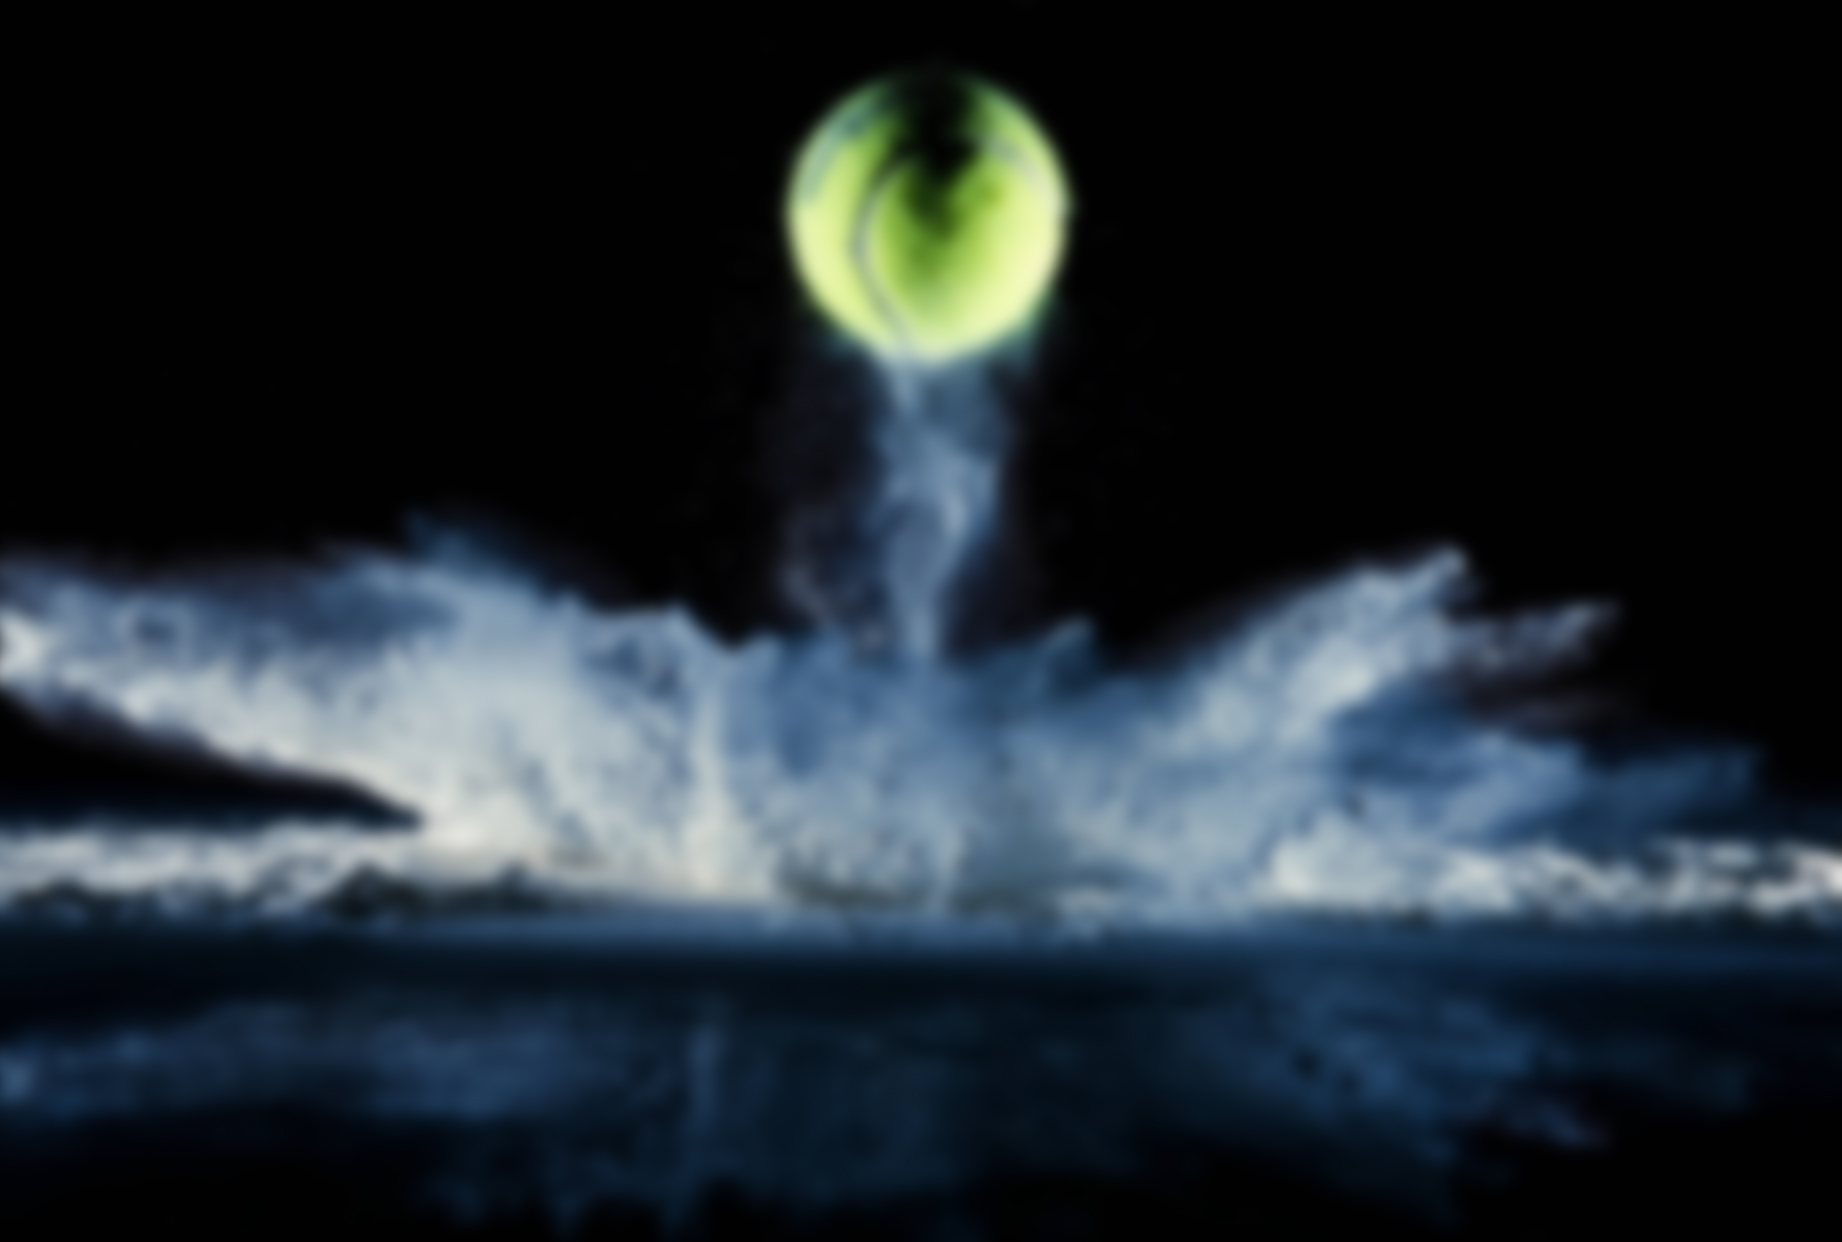
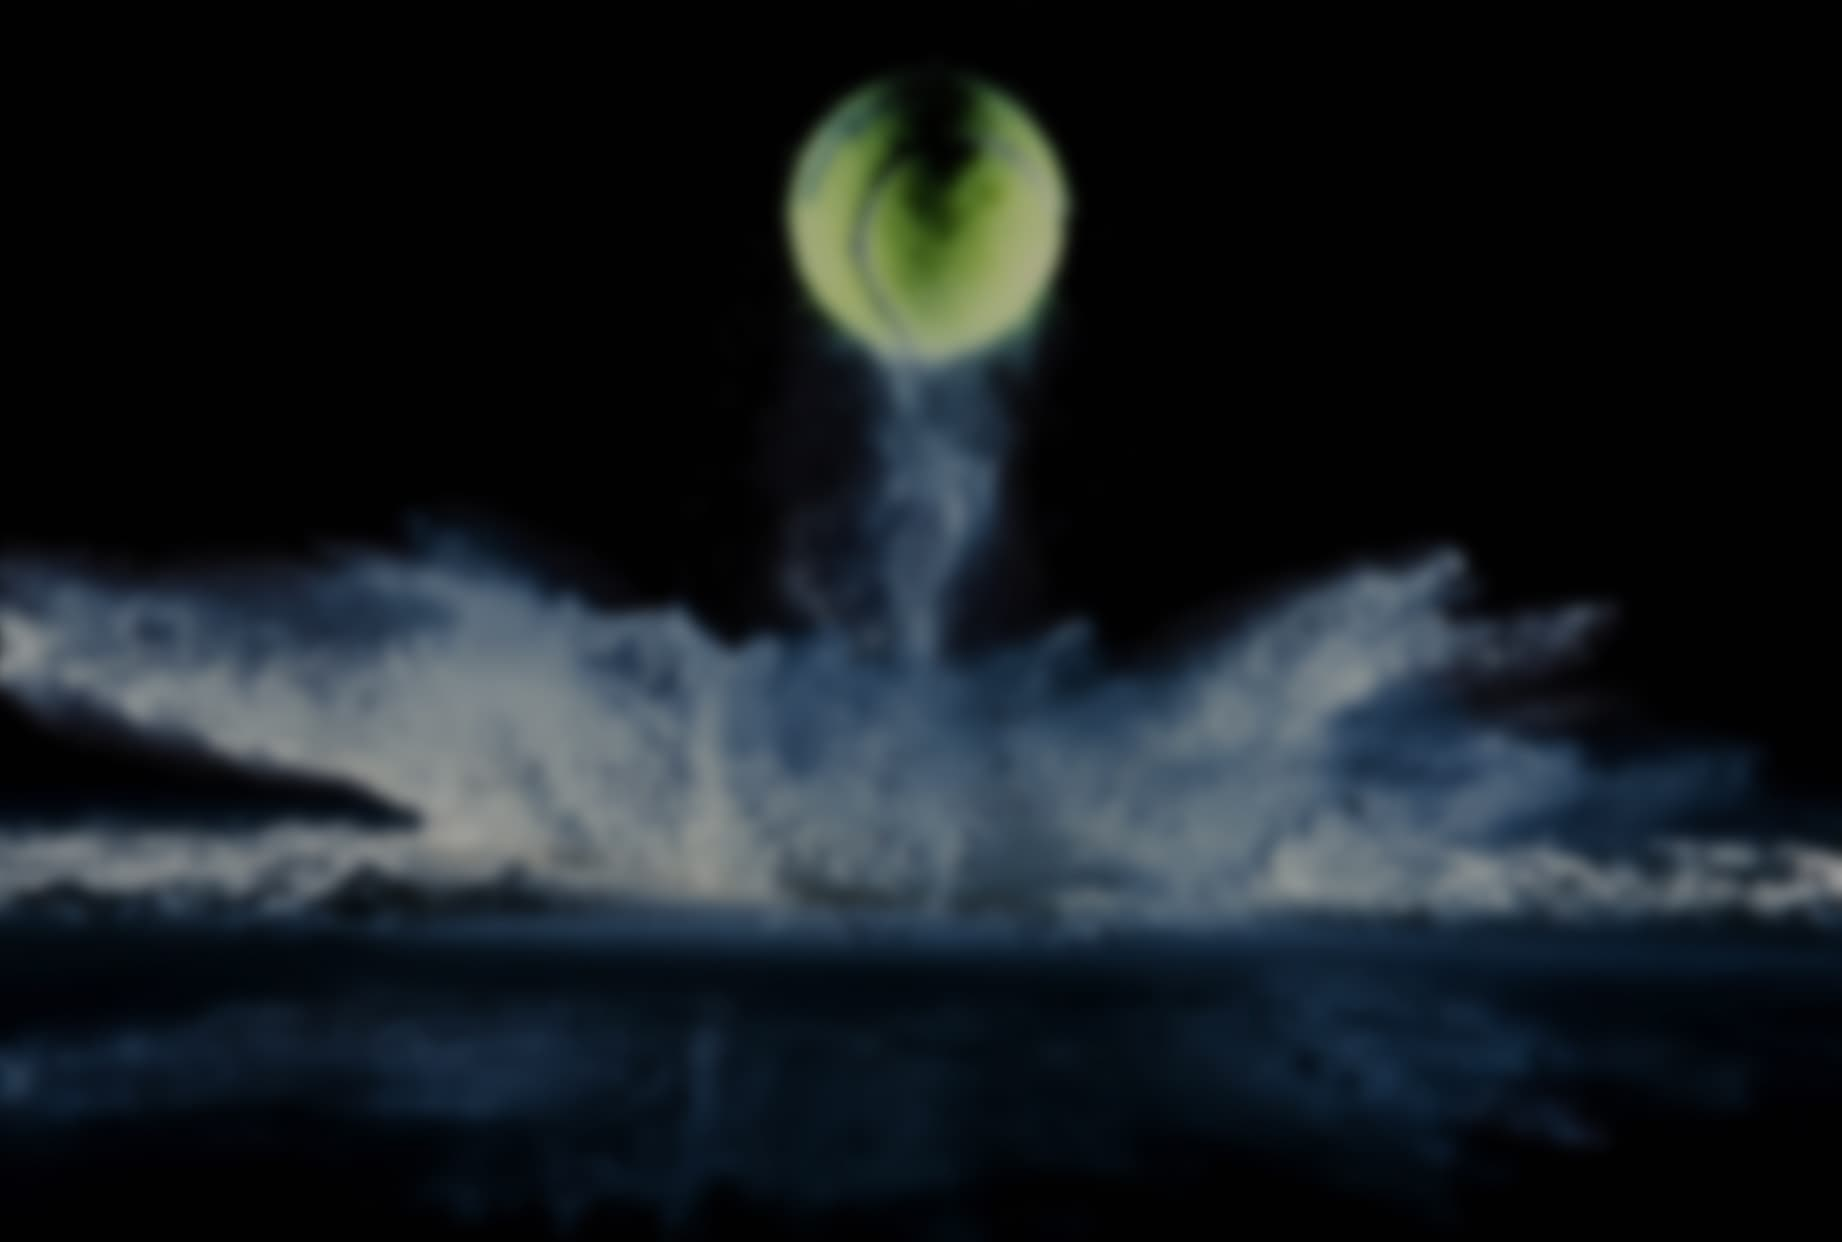
updated chart + updated hero BG + fix stats BG

diff --git a/src/components/ChartSection/Chart.jsx b/src/components/ChartSection/Chart.jsx
@@ -1,3 +1,4 @@
+import { differenceInYears } from "date-fns";
 import { getColorByType } from "../../helpers/getColorByType";
 import { ChartElement, ChartWrap } from "./ChartSection-styled";
 
@@ -7,11 +8,30 @@ export const Chart = ({ membersArray, options, type }) => {
       <ChartWrap>
         {options.map((el) => {
           const amount = membersArray?.reduce((acc, member) => {
+            if (type === "birthDate") {
+              const age = differenceInYears(
+                new Date(),
+                new Date(member.birthDate)
+              );
+              if (el === "Менше 20 років" && age < 20) {
+                return acc + 1;
+              }
+              if (el === "20-40 років" && age >= 20 && age < 40) {
+                return acc + 1;
+              }
+              if (el === "40-60 років" && age >= 40 && age < 60) {
+                return acc + 1;
+              }
+              if (el === "Більше 60 років" && age >= 60) {
+                return acc + 1;
+              }
+            }
+
             if (type === "hometown" && el === "Інші") {
               return member[type] !== "Львів" ? acc + 1 : acc;
-            } else {
-              return member[type] === el ? acc + 1 : acc;
             }
+
+            return member[type] === el ? acc + 1 : acc;
           }, 0);
 
           const coefficient = amount / membersArray?.length;

diff --git a/src/components/HeroSection/HeroSection-styled.jsx b/src/components/HeroSection/HeroSection-styled.jsx
@@ -1,18 +1,43 @@
-import styled from "styled-components";
+import styled, { keyframes } from "styled-components";
 import { Link } from "react-router-dom";
-import PosterImg4 from "./img/poster4.jpg";
-import PosterImg5 from "./img/poster5.jpg";
-import PosterImg6 from "./img/poster6.jpg";
 
-const getRandomIndex = () => Math.floor(Math.random() * 3);
-const posterImages = [PosterImg4, PosterImg5, PosterImg6];
-const randomPoster = posterImages[getRandomIndex()];
+const Animation = keyframes`
+  0% {
+    opacity: 1;
+  }
+  100% {
+    opacity: 0;
+  }
+`;
 
 export const Section = styled.section`
+  position: relative;
   padding-top: 30px;
   padding-bottom: 100px;
+`;
+
+export const FirstPoster = styled.div`
+  z-index: -1;
+  width: 100%;
+  height: 100%;
+  top: 0;
+  left: 0;
+  position: absolute;
+  background-size: cover;
+  background-position: 98% center;
+  background-repeat: no-repeat;
+
+  animation: ${Animation} 3s infinite ease-in-out alternate;
+`;
+
+export const SecondPoster = styled.div`
   background-color: var(--secondary-black-color);
-  background-image: url(${randomPoster});
+  z-index: -2;
+  width: 100%;
+  height: 100%;
+  top: 0;
+  left: 0;
+  position: absolute;
   background-size: cover;
   background-position: 98% center;
   background-repeat: no-repeat;

diff --git a/src/components/ChartSection/ChartSection.jsx b/src/components/ChartSection/ChartSection.jsx
@@ -23,6 +23,13 @@ export const ChartSection = ({ membersArray }) => {
     "Дворучний",
   ];
 
+  const optionsByAge = [
+    "Менше 20 років",
+    "20-40 років",
+    "40-60 років",
+    "Більше 60 років",
+  ];
+
   const optionsByHomeTown = ["Львів", "Інші"];
 
   return (
@@ -62,6 +69,13 @@ export const ChartSection = ({ membersArray }) => {
           membersArray={membersArray}
           options={optionsByHomeTown}
           type={"hometown"}
+        />
+
+        <Subtitle>За віком:</Subtitle>
+        <Chart
+          membersArray={membersArray}
+          options={optionsByAge}
+          type={"birthDate"}
         />
       </Section>
     </>

diff --git a/src/components/HeroSection/HeroSection.jsx b/src/components/HeroSection/HeroSection.jsx
@@ -15,7 +15,12 @@ import {
   HeartIconSvgWrap,
   TitleH2,
   TitleH2Text,
+  FirstPoster,
+  SecondPoster,
 } from "./HeroSection-styled";
+
+import PosterImg5 from "./img/poster5.jpg";
+import PosterImg6 from "./img/poster6.jpg";
 
 import sprite from "../../sprite.svg";
 
@@ -23,6 +28,8 @@ export const HeroSection = () => {
   return (
     <>
       <Section>
+        <FirstPoster style={{ backgroundImage: `url(${PosterImg6})` }} />
+        <SecondPoster style={{ backgroundImage: `url(${PosterImg5})` }} />
         <SectionWrap>
           <TitleH2>
             <HeartIconSvgWrap>

diff --git a/src/helpers/getColorByType.js b/src/helpers/getColorByType.js
@@ -37,6 +37,15 @@ export const getColorByType = (type) => {
     case "Інші":
       return "var(--type-others-color)";
 
+    case "Менше 20 років":
+      return "var(--type-to20-color)";
+    case "20-40 років":
+      return "var(--type-20-40-color)";
+    case "40-60 років":
+      return "var(--type-40-60-color)";
+    case "Більше 60 років":
+      return "var(--type-over60-color)";
+
     default:
       return "var(--primary-grey-color)";
   }

diff --git a/src/components/StatsSection/StatsSection-styled.jsx b/src/components/StatsSection/StatsSection-styled.jsx
@@ -1,5 +1,5 @@
 import styled from "styled-components";
-import PosterImg from "./img/poster2.jpg";
+import PosterImg from "./img/poster.jpg";
 
 export const Section = styled.section`
   padding-top: 100px;
@@ -7,7 +7,7 @@ export const Section = styled.section`
   background-color: var(--secondary-black-color);
   background-image: url(${PosterImg});
   background-size: cover;
-  background-position: center;
+  background-position: top;
   background-repeat: no-repeat;
 `;
 

diff --git a/src/index.css b/src/index.css
@@ -40,6 +40,11 @@
   --type-lviv-color: #0080ff;
   --type-others-color: #ff00e1;
 
+  --type-to20-color: #bfff00;
+  --type-20-40-color: rgb(59, 255, 134);
+  --type-40-60-color: #006aff;
+  --type-over60-color: #9500ff;
+
 
   --box-shadow: rgba(0, 0, 0, 0.25) 0px 54px 55px,
     rgba(0, 0, 0, 0.12) 0px -12px 30px, rgba(0, 0, 0, 0.12) 0px 4px 6px,

diff --git a/src/components/LastUpdateSection/LastUpdateSection.jsx b/src/components/LastUpdateSection/LastUpdateSection.jsx
@@ -11,7 +11,7 @@ export const LastUpdateSection = () => {
               <use href={sprite + "#icon-loop"}></use>
             </IconSvg>
           </IconWrap>
-          Останнє оновлення: 10.02.2024
+          Останнє оновлення: 11.02.2024
         </Text>
       </Section>
     </>

diff --git a/src/components/Filters/MembersFilterBar.jsx b/src/components/Filters/MembersFilterBar.jsx
@@ -21,7 +21,6 @@ export const MembersFilterBar = ({ membersArray, setVisibleMembersArray }) => {
     "Тренер",
     "Дитяча група",
     "Тенісна мама",
-    "Чемпіон",
   ];
   const optionsByBirthday = [
     "Вимкнути",

diff --git a/src/Layout/Layout.jsx b/src/Layout/Layout.jsx
@@ -12,9 +12,9 @@ const Layout = () => {
       <LastUpdateSection />
       <main>
         <Outlet />
+        <ContactsSection />
       </main>
 
-      <ContactsSection />
       <Footer />
       <ScrollToTopButton />
     </>
